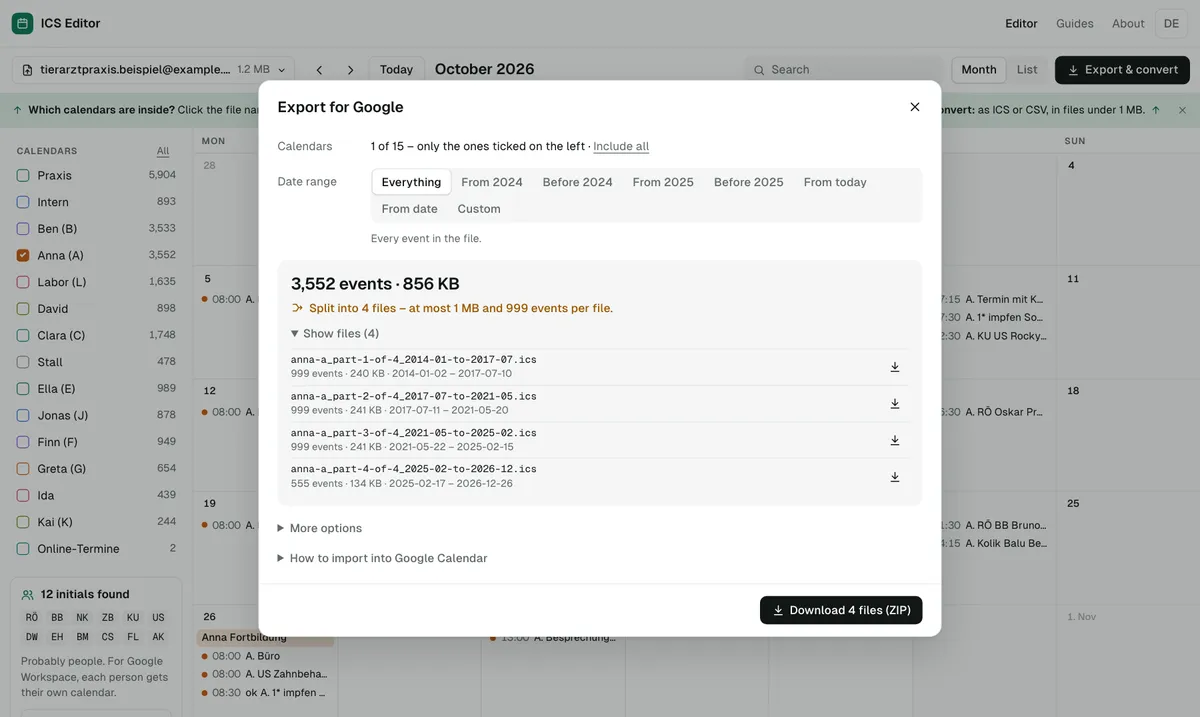
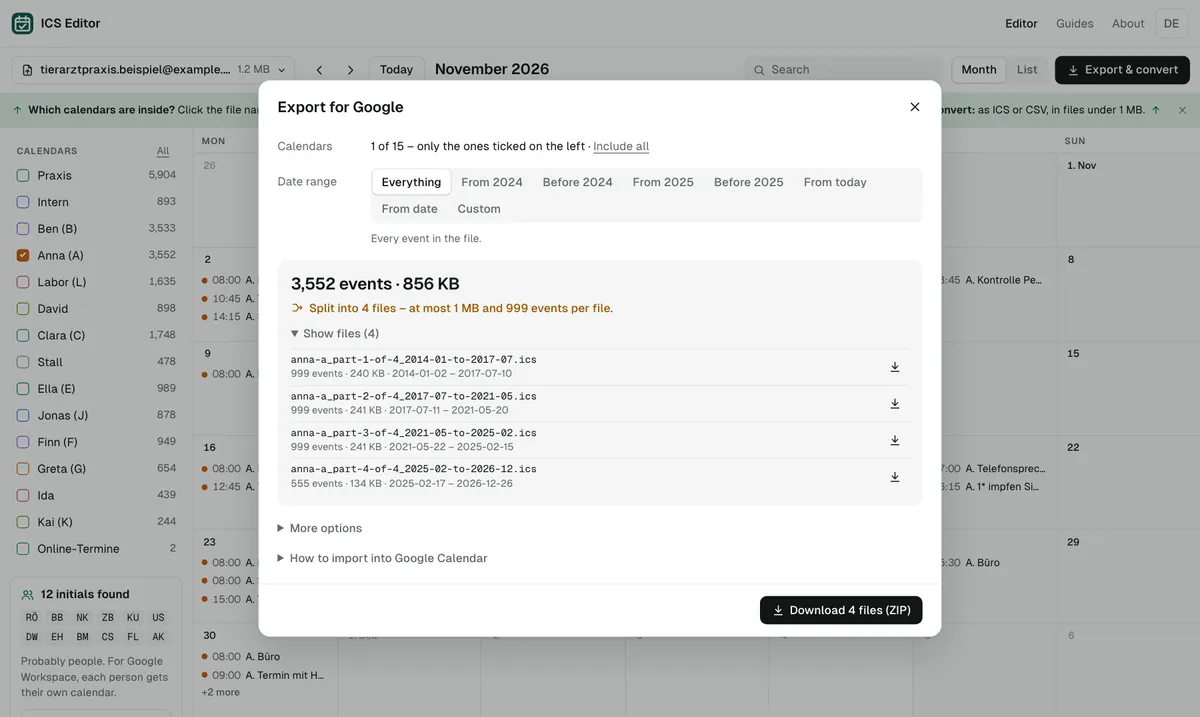
Bilder: 4 neue Bildschirmfotos (Start, Handy, Doppelte Termine, CSV), Alternativtexte getrennt von Bildunterschriften, bis zu 3 Bilder je Ratgeber
- scripts/screenshots.mjs: Startseite, Handy-Liste, Export mit doppelten Terminen (erfundene Datei), Zeitraum ab 2024, CSV für Excel; Einwilligungs-Banner nicht im Bild
- src/content/image-alt.ts: beschreibende Alternativtexte je Motiv (DE/EN)
- Bildunterschriften korrigiert, wo sie nicht zum Bild passten (u. a. Import rückgängig, CSV in ICS, Exportieren)
- ImageObject mit Maßen, Bildunterschrift und Beschreibung im Article-Schema; Hochformat-Bilder schmal

diff --git a/src/content/guides.ts b/src/content/guides.ts
@@ -48,7 +48,7 @@ export const GUIDES: Record<string, GuideDef> = {
     type: 'howto',
     published: '2026-10-08',
     updated: '2026-11-25',
-    figures: [{ name: 'export', de: 'Der ICS Editor teilt eine zu große Datei automatisch in Teile unter 1 MB – mit Zeitraum und Größe je Teil.', en: 'The ICS Editor automatically splits a file that is too large into parts under 1 MB – with date range and size for each part.' }, { name: 'clean', de: 'Verkleinern: nur die letzten Jahre exportieren oder unter „Mehr Optionen“ Zusatzdaten, Beschreibungen und abgesagte Termine weglassen – Größe und Dateianzahl ändern sich sofort.', en: 'Shrinking: export only recent years or, under “More options”, leave out extras, descriptions and cancelled events – size and file count update instantly.' }],
+    figures: [{ name: 'range', de: 'Erst verkleinern: Mit dem Zeitraum „Ab 2024“ schrumpft der Beispielkalender auf 5.806 Termine – das Fenster zeigt sofort, wie viele Dateien unter 1 MB es werden.', en: 'Shrink first: with the date range starting in 2024, the example calendar drops to 5,806 events – the window shows straight away how many files under 1 MB that makes.' }, { name: 'clean', de: 'Noch kleiner: Unter „Mehr Optionen“ lässt du technische Zusatzdaten, abgesagte Termine oder Beschreibungen weg – Größe und Dateianzahl ändern sich sofort.', en: 'Even smaller: under “More options” you leave out technical extras, cancelled events or descriptions – size and file count update instantly.' }, { name: 'export', de: 'Dann aufteilen: Jede Datei bleibt unter 1 MB und zeigt ihren Zeitraum – so weißt du beim Import, welcher Teil schon drin ist.', en: 'Then split: every file stays under 1 MB and shows its date range – so while importing you know which part is already in.' }],
     sources: ['problems', 'import'],
     related: ['importParts', 'split', 'limits', 'undo'],
     de: {
@@ -117,7 +117,7 @@ export const GUIDES: Record<string, GuideDef> = {
     published: '2026-10-26',
     updated: '2026-11-25',
     checked: '2026-11-25',
-    figures: [{ name: 'export', de: 'Im Export-Fenster unter „Mehr Optionen“ → „Weglassen“ steht „Doppelte Termine“ mit der Anzahl, die das Werkzeug gefunden hat.', en: 'In the export window under “More options” → “Leave out” you’ll find “Duplicate events” with the number the tool found.' }],
+    figures: [{ name: 'dupes', de: 'Duplikate beim Export weglassen: Das Werkzeug zählt Termine mit gleichem Titel, Beginn und Ende – hier 11 in einer Beispieldatei – und behält von jedem genau einen.', en: 'Leave duplicates out on export: the tool counts events with the same title, start and end – 11 in this example file – and keeps exactly one of each.' }, { name: 'overview', de: 'Schon vor dem Export sichtbar: Die Datei-Info nennt je Kalender, wie viele Termine doppelt sind.', en: 'Visible before you export: file info shows how many events are duplicated in each calendar.' }],
     sources: ['problems', 'gexport', 'import', 'delete', 'subscribe'],
     related: ['undo', 'gexport', 'importParts', 'outlook'],
     de: {
@@ -188,7 +188,7 @@ export const GUIDES: Record<string, GuideDef> = {
     published: '2026-10-26',
     updated: '2026-11-25',
     checked: '2026-11-25',
-    figures: [{ name: 'editor', de: 'Die aus Outlook gespeicherte ICS-Datei im ICS Editor: links der Kalender mit Zeitraum und Größe, in der Mitte die Termine.', en: 'The ICS file saved from Outlook in the ICS Editor: the calendar with date range and size on the left, the events in the middle.' }],
+    figures: [{ name: 'editor', de: 'So sieht eine geöffnete Kalenderdatei im ICS Editor aus: Bevor du sie in Google importierst, prüfst du Termine, Zeitraum und Größe (Beispieldaten).', en: 'This is what an opened calendar file looks like in the ICS Editor: before importing it into Google, you check events, date range and size (example data).' }, { name: 'range', de: 'Ein großer Outlook-Kalender passt nicht in eine Datei? Ein kürzerer Zeitraum und das automatische Aufteilen bringen jeden Teil unter 1 MB.', en: 'A large Outlook calendar won’t fit in one file? A shorter date range and automatic splitting get every part under 1 MB.' }],
     sources: ['outlook', 'outlookPublish', 'subscribe', 'import', 'problems'],
     related: ['ics', 'tooLarge', 'importParts', 'dupes'],
     de: {
@@ -261,7 +261,7 @@ export const GUIDES: Record<string, GuideDef> = {
     published: '2026-10-26',
     updated: '2026-11-25',
     checked: '2026-11-25',
-    figures: [{ name: 'editor', de: 'Mehrere aus Apple Kalender exportierte ICS-Dateien im ICS Editor: links jeder Kalender mit Zeitraum und Größe.', en: 'Several ICS files exported from Apple Calendar in the ICS Editor: each calendar on the left with its date range and size.' }],
+    figures: [{ name: 'editor', de: 'Alle exportierten Apple-Kalender zusammen prüfen: Links steht jeder Kalender mit seiner Terminzahl, in der Mitte der Monat (Beispieldaten).', en: 'Check all exported Apple calendars together: each calendar is listed on the left with its event count, the month in the middle (example data).' }, { name: 'overview', de: 'Vor dem Import Uhrzeiten absichern: Die Datei-Info zeigt je Kalender die Zeitzone, den Zeitraum und die Größe.', en: 'Rule out wrong times before importing: file info shows the time zone, date range and size of each calendar.' }],
     sources: ['apple', 'icloudShare', 'subscribe', 'import', 'problems'],
     related: ['outlook', 'ics', 'importParts', 'dupes'],
     de: {
@@ -331,7 +331,7 @@ export const GUIDES: Record<string, GuideDef> = {
     type: 'howto',
     published: '2026-11-05',
     updated: '2026-11-05',
-    figures: [{ name: 'export', de: 'Im ICS Editor wählst du beim Export zwischen ICS und CSV für Excel – und siehst vorher, wie viele Termine und Dateien es werden.', en: 'In the ICS Editor you choose between ICS and CSV for Excel on export – and see beforehand how many events and files it will be.' }],
+    figures: [{ name: 'overview', de: 'Was im Google-Export steckt: Die Datei-Info zeigt jeden Kalender aus dem ZIP mit Terminen, Zeitraum und Größe.', en: 'What’s inside the Google export: file info shows every calendar from the ZIP with events, date range and size.' }, { name: 'csv', de: 'Für Excel: Beim Export „CSV für Excel“ wählen – Spaltennamen und Trennzeichen entsprechen dem Format aus Googles Hilfe.', en: 'For Excel: choose “CSV for Excel” on export – column names and separator match the format in Google’s help.' }],
     sources: ['gexport', 'import', 'excelCsv'],
     related: ['open', 'split', 'importParts', 'move'],
     de: {
@@ -398,7 +398,7 @@ export const GUIDES: Record<string, GuideDef> = {
     published: '2026-11-05',
     updated: '2026-11-25',
     checked: '2026-11-25',
-    figures: [{ name: 'editor', de: 'Eine geöffnete ICS-Datei im ICS Editor: links die Kalender, in der Mitte die Termine im Monat, rechts ein Termin mit allen Angaben.', en: 'An ICS file opened in the ICS Editor: calendars on the left, events in the month view in the middle, one event with all its details on the right.' }],
+    figures: [{ name: 'start', de: 'Datei auf das Feld ziehen oder „Datei auswählen“ – die Datei wird im Browser gelesen und nicht hochgeladen.', en: 'Drop the file onto the box or click “Choose file” – the file is read in your browser and not uploaded.' }, { name: 'editor', de: 'Die geöffnete Datei: links die Kalender, in der Mitte die Termine im Monat, rechts ein Termin mit allen Angaben (Beispieldaten).', en: 'The opened file: calendars on the left, the events in the month in the middle, one event with all its details on the right (example data).' }, { name: 'mobile', de: 'Am Handy: Die Termine erscheinen als Liste mit Uhrzeit und Titel – angesehen, ohne sie in einen Kalender zu übernehmen (Beispieldaten).', en: 'On a phone: the events appear as a list with time and title – viewed without adding them to a calendar (example data).' }],
     sources: ['rfc5545', 'windowsMail', 'outlookImport', 'apple', 'import'],
     related: ['ics', 'gexport', 'apple', 'convert'],
     de: {
@@ -466,7 +466,7 @@ export const GUIDES: Record<string, GuideDef> = {
     type: 'howto',
     published: '2026-11-05',
     updated: '2026-11-05',
-    figures: [{ name: 'month', de: 'Im ICS Editor bekommt jeder Ziel-Kalender eine Farbe – so siehst du vor dem Export, welcher Termin wohin wandert.', en: 'In the ICS Editor every target calendar gets a colour – so you see before exporting which event goes where.' }],
+    figures: [{ name: 'split', de: 'Ziel-Kalender anlegen: „Aufteilen“ macht aus jedem Kürzel am Titelanfang einen eigenen Kalender, dem du einen Namen gibst.', en: 'Create target calendars: “Split” turns each set of initials at the start of a title into its own calendar, which you can name.' }, { name: 'month', de: 'Vor dem Export kontrollieren: Jeder Ziel-Kalender hat eine eigene Farbe – so siehst du, welcher Termin wohin wandert.', en: 'Check before exporting: every target calendar has its own colour – so you see which event goes where.' }],
     sources: ['transfer', 'gexport', 'import', 'delete'],
     related: ['split', 'gexport', 'dupes', 'undo'],
     de: {
@@ -532,7 +532,7 @@ export const GUIDES: Record<string, GuideDef> = {
     type: 'article',
     published: '2026-10-08',
     updated: '2026-11-25',
-    figures: [{ name: 'overview', de: 'Die Datei-Info zeigt pro Kalender Termine, Zeitraum, Größe, Serien und Zeitzone – dazu die Termine pro Jahr.', en: 'File info shows events, date range, size, recurring events and time zone for each calendar – plus events per year.' }],
+    figures: [{ name: 'overview', de: 'Alle Kennzahlen zu einer Datei: Termine, Zeitraum, Größe, Serien und Zeitzone je Kalender – dazu die Termine pro Jahr.', en: 'All key figures for a file: events, date range, size, recurring events and time zone per calendar – plus events per year.' }, { name: 'parts', de: 'Zwei Grenzen auf einmal: höchstens 1 MB und auf Wunsch höchstens 999 Termine pro Datei – das Werkzeug zeigt Zeitraum und Terminzahl jedes Teils.', en: 'Two limits at once: at most 1 MB and, if you want, at most 999 events per file – the tool shows each part’s date range and event count.' }],
     sources: ['problems', 'import', 'limits', 'delete'],
     related: ['tooLarge', 'importFails', 'split', 'undo'],
     de: {
@@ -616,7 +616,7 @@ export const GUIDES: Record<string, GuideDef> = {
     type: 'howto',
     published: '2026-10-08',
     updated: '2026-10-13',
-    figures: [{ name: 'check', de: '„Spalten und Probleme“: Problemzeilen in einfacher Sprache mit Zeilennummer und Vorschlag zur Korrektur.', en: '“Columns and problems”: problem rows in plain language with row number and a suggested fix.' }],
+    figures: [{ name: 'check', de: 'Statt einer Fehlermeldung von Google: „Spalten und Probleme“ nennt jede Problemzeile mit Nummer und einem Vorschlag zur Korrektur (Beispieldaten).', en: 'Instead of an error from Google: “Columns and problems” lists every problem row with its number and a suggested fix (example data).' }, { name: 'csv', de: 'Danach als Google-CSV speichern: englische Spaltennamen und Komma als Trennzeichen, so wie Google es verlangt.', en: 'Then save as Google CSV: English column names and commas as separators, exactly as Google requires.' }],
     sources: ['import', 'problems'],
     related: ['tooLarge', 'limits', 'convert', 'excel'],
     de: {
@@ -694,7 +694,7 @@ export const GUIDES: Record<string, GuideDef> = {
     type: 'howto',
     published: '2026-10-08',
     updated: '2026-10-14',
-    figures: [{ name: 'editor', de: 'Links die Kalender der Datei und erkannte Kürzel, in der Mitte die Termine, rechts der gewählte Termin zum Bearbeiten.', en: 'On the left the calendars in the file and detected initials, in the middle the events, on the right the selected event for editing.' }, { name: 'split', de: 'Ein Klick auf „Aufteilen“ macht aus jedem Kürzel einen eigenen Kalender – mit Namen, Farbe und Anzahl der Termine.', en: 'One click on “Split” turns each set of initials into its own calendar – with a name, a colour and its event count.' }],
+    figures: [{ name: 'editor', de: 'Erkannte Kürzel: Links unter den Kalendern stehen die Kürzel, die das Werkzeug am Titelanfang gefunden hat, etwa RÖ, BB, NK (Beispieldaten).', en: 'Detected initials: below the calendars on the left are the initials the tool found at the start of titles, e.g. RÖ, BB, NK (example data).' }, { name: 'split', de: 'Ein Klick auf „Aufteilen“ macht aus jedem Kürzel einen eigenen Kalender – mit Namen, Farbe und Anzahl der Termine.', en: 'One click on “Split” turns each set of initials into its own calendar – with a name, a colour and its event count.' }, { name: 'month', de: 'Das Ergebnis: Jeder neue Kalender hat seine Farbe und kann einzeln exportiert und in Google importiert werden.', en: 'The result: every new calendar has its own colour and can be exported and imported into Google separately.' }],
     sources: ['import', 'create', 'limits', 'problems'],
     related: ['tooLarge', 'importParts', 'ics', 'undo'],
     de: {
@@ -760,7 +760,7 @@ export const GUIDES: Record<string, GuideDef> = {
     type: 'howto',
     published: '2026-10-08',
     updated: '2026-10-13',
-    figures: [{ name: 'birthdays', de: 'Aus einer Geburtstagsliste werden jährliche, ganztägige Termine – in der Liste mit Wiederholungs-Symbol.', en: 'A birthday list becomes yearly all-day events – shown with a repeat icon in the list.' }],
+    figures: [{ name: 'birthdays', de: 'Aus einer Geburtstagsliste werden jährliche, ganztägige Termine – in der Liste mit Wiederholungs-Symbol (Beispieldaten).', en: 'A birthday list becomes yearly all-day events – shown with a repeat icon in the list (example data).' }, { name: 'privacy', de: 'Bevor etwas in Google landet: Spalten mit Telefonnummern oder Geburtsdaten lassen sich weglassen oder kürzen.', en: 'Before anything reaches Google: columns with phone numbers or dates of birth can be left out or shortened.' }],
     sources: ['import', 'problems'],
     related: ['convert', 'importFails', 'ics', 'undo'],
     de: {
@@ -824,7 +824,7 @@ export const GUIDES: Record<string, GuideDef> = {
     type: 'howto',
     published: '2026-10-08',
     updated: '2026-10-13',
-    figures: [{ name: 'editor', de: 'Eine ICS-Datei im ICS Editor: Kalender, Termine und das Bearbeitungsfeld für den gewählten Termin.', en: 'An ICS file in the ICS Editor: calendars, events and the editor for the selected event.' }, { name: 'month', de: 'In der Monatsansicht erscheinen Serientermine an jedem Tag, an dem sie stattfinden.', en: 'In the month view, recurring events appear on every day they occur.' }],
+    figures: [{ name: 'editor', de: 'Vor dem Import ansehen: Kalender, Termine und das Bearbeitungsfeld für den gewählten Termin (Beispieldaten).', en: 'Look before importing: calendars, events and the editor for the selected event (example data).' }, { name: 'range', de: 'Größe prüfen: Das Exportfenster zeigt, ob alles in eine Datei unter 1 MB passt oder in wie viele Teile geteilt wird.', en: 'Check the size: the export window shows whether everything fits into one file under 1 MB or how many parts it needs.' }],
     sources: ['import', 'problems'],
     related: ['outlook', 'tooLarge', 'split', 'convert'],
     de: {
@@ -888,7 +888,7 @@ export const GUIDES: Record<string, GuideDef> = {
     type: 'howto',
     published: '2026-10-14',
     updated: '2026-10-14',
-    figures: [{ name: 'parts', de: 'Nur der Kalender „Anna (A)“ angehakt und „Höchstens 999 Termine pro Datei“: Der ICS Editor teilt in vier Dateien und zeigt je Teil Zeitraum und Zahl der Termine (Beispieldaten).', en: 'Only the calendar “Anna (A)” ticked and “At most 999 events per file”: the ICS Editor splits into four files and lists each part’s date range and event count (example data).' }],
+    figures: [{ name: 'parts', de: 'Nur der Kalender „Anna (A)“ angehakt und „Höchstens 999 Termine pro Datei“: Der ICS Editor teilt in vier Dateien und zeigt je Teil Zeitraum und Zahl der Termine (Beispieldaten).', en: 'Only the calendar “Anna (A)” ticked and “At most 999 events per file”: the ICS Editor splits into four files and lists each part’s date range and event count (example data).' }, { name: 'export', de: 'Die Dateinamen enthalten den Zeitraum – so hakst du beim Import der Reihe nach ab, welcher Teil schon in Google ist.', en: 'The file names include the date range – so you tick off one by one which part is already in Google.' }],
     sources: ['import', 'problems', 'create'],
     related: ['tooLarge', 'split', 'dupes', 'undo'],
     de: {
@@ -958,7 +958,7 @@ export const GUIDES: Record<string, GuideDef> = {
     type: 'howto',
     published: '2026-10-08',
     updated: '2026-10-13',
-    figures: [{ name: 'export', de: 'Beim Export wählst du zwischen ICS (mit Serien und Zeitzone) und Google-CSV.', en: 'When exporting you choose between ICS (with recurrence and time zone) and Google CSV.' }, { name: 'privacy', de: 'Vor dem Umwandeln lassen sich Spalten mit Namen, Telefonnummern oder Geburtsdaten weglassen oder kürzen.', en: 'Before converting, columns with names, phone numbers or birth dates can be left out or shortened.' }],
+    figures: [{ name: 'check', de: 'Erst prüfen: Ungültige Daten, fehlende Titel oder vertauschte Uhrzeiten zeigt das Werkzeug mit Zeilennummer und Vorschlag.', en: 'Check first: invalid dates, missing titles or swapped times are shown with row number and a suggestion.' }, { name: 'privacy', de: 'Vor dem Umwandeln lassen sich Spalten mit Namen, Telefonnummern oder Geburtsdaten weglassen oder kürzen; darunter ordnest du jede Spalte einem Google-Feld zu.', en: 'Before converting, columns with names, phone numbers or dates of birth can be left out or shortened; below that you map each column to a Google field.' }, { name: 'csv', de: 'Dann als ICS (mit Serien und Zeitzone) oder als Google-CSV speichern.', en: 'Then save as ICS (with recurrence and time zone) or as Google CSV.' }],
     sources: ['import', 'rfc5545'],
     related: ['excel', 'ics', 'importFails', 'tooLarge'],
     de: {
@@ -1018,7 +1018,7 @@ export const GUIDES: Record<string, GuideDef> = {
     type: 'howto',
     published: '2026-10-08',
     updated: '2026-11-04',
-    figures: [{ name: 'export', de: 'Im Export-Fenster steht die Anleitung zum Import – sie beginnt mit einem neuen, leeren Kalender.', en: 'The export window includes the import steps – starting with a new, empty calendar.' }],
+    figures: [{ name: 'parts', de: 'Beim nächsten Versuch: Große Dateien in Teilen importieren, jeden Teil mit Zeitraum – so lässt sich ein Fehler leichter eingrenzen.', en: 'On your next attempt: import large files in parts, each with its date range – that makes an error easier to narrow down.' }],
     sources: ['delete', 'create', 'problems'],
     related: ['dupes', 'importParts', 'ics', 'tooLarge'],
     de: {

diff --git a/src/content/image-alt.ts b/src/content/image-alt.ts
@@ -1,0 +1,66 @@
+// Alternativtexte der Bildschirmfotos: beschreiben, was zu sehen ist (für Screenreader, Bildersuche und Antwortmaschinen).
+// Die Bildunterschrift je Ratgeber erklärt dagegen, warum das Bild an dieser Stelle hilft.
+// Alle Fotos zeigen erfundene Beispieldaten (scripts/screenshots.mjs).
+
+export const IMG_ALT: Record<string, { de: string; en: string }> = {
+  start: {
+    de: 'Startseite des ICS Editors: gestrichelte Ablagefläche mit „Datei hierher ziehen“, Knopf „Datei auswählen“, darunter die unterstützten Formate und der Hinweis „Bleibt auf deinem Gerät. Nichts wird hochgeladen.“',
+    en: 'ICS Editor start page: dashed drop area with “Drop your file here”, a “Choose file” button, the supported formats below and the note that nothing is uploaded.'
+  },
+  editor: {
+    de: 'ICS Editor mit geöffnetem Google-Kalender-Export: links 15 Kalender mit Anzahl der Termine, in der Mitte die Monatsansicht November, rechts ein ausgewählter Termin mit Datum, Uhrzeit und Beschreibung zum Bearbeiten.',
+    en: 'ICS Editor with a Google Calendar export open: 15 calendars with event counts on the left, the November month view in the middle, a selected event with date, time and description for editing on the right.'
+  },
+  overview: {
+    de: 'Fenster „Datei-Info“: je Kalender Kacheln für Termine, Zeitraum, Größe, Serien, Anteil mit Beschreibung und Zeitzone, ein Balkendiagramm der Termine pro Jahr sowie Zeilen für abgesagte, doppelte und Termine mit Telefonnummer.',
+    en: '“File info” window: for each calendar, tiles for events, date range, size, recurring events, share with description and time zone, a bar chart of events per year, and rows for cancelled, duplicate and events with phone numbers.'
+  },
+  export: {
+    de: 'Fenster „Für Google exportieren“ mit Zeitraum „Ab 2024“: oben die Summe „Passt: 13 Dateien, jede unter 1 MB“, darunter die aufgeklappte Liste der Dateien mit Name, Zahl der Termine, Größe und Zeitraum je Datei.',
+    en: '“Export for Google” window with the date range set to start in 2024: the total “Fits: 13 files, each under 1 MB” at the top and the expanded list of files with name, event count, size and date range for each.'
+  },
+  range: {
+    de: 'Fenster „Für Google exportieren“: Zeitraum „Ab 2024“ ausgewählt, darunter „5.806 Termine · 1,4 MB“ und grün „Passt: 14 Dateien, jede unter 1 MB“.',
+    en: '“Export for Google” window: date range starting in 2024 selected, below it “5,806 events · 1.4 MB” and in green “Fits: 14 files, each under 1 MB”.'
+  },
+  clean: {
+    de: 'Exportfenster mit aufgeklappten „Mehr Optionen“: Häkchen bei „Technische Zusatzdaten“ und „Abgesagte Termine“, daneben die Anzahl je Option, Format „CSV für Excel“ gewählt.',
+    en: 'Export window with “More options” expanded: ticks at “Technical extras” and “Cancelled events”, the count next to each option, format “CSV for Excel” selected.'
+  },
+  csv: {
+    de: 'Exportfenster mit Format „CSV für Excel“: Hinweis „Genau das Format aus Googles Hilfe: englische Spaltennamen, Komma als Trennzeichen“, darüber die Optionen zum Weglassen.',
+    en: 'Export window with format “CSV for Excel”: the note “exactly the format from Google’s help: English column names, comma as separator”, with the leave-out options above.'
+  },
+  dupes: {
+    de: 'Exportfenster für eine Beispiel-Praxisdatei: „45 Termine · 9 KB, passt in eine Datei unter 1 MB“, unter „Weglassen“ ist „Doppelte Termine“ mit der Zahl 11 angehakt.',
+    en: 'Export window for an example practice file: “45 events · 9 KB, fits in one file under 1 MB”, under “Leave out” the option “Duplicate events” with the number 11 is ticked.'
+  },
+  parts: {
+    de: 'Exportfenster: nur ein Kalender ausgewählt, Hinweis „Wird in 4 Dateien geteilt – höchstens 1 MB und 999 Termine pro Datei“, darunter vier Dateien mit je 999 oder weniger Terminen und ihrem Zeitraum.',
+    en: 'Export window: one calendar selected, the note “Split into 4 files – at most 1 MB and 999 events per file”, below four files with 999 or fewer events each and their date range.'
+  },
+  split: {
+    de: 'Fenster „In mehrere Kalender aufteilen“: Liste erkannter Kürzel wie RÖ, BB, NK mit Anzahl der Termine; das erste Kürzel erhält gerade den Namen „Dr. Muster“, unten der Knopf „13 Kalender anlegen“.',
+    en: '“Split into several calendars” window: a list of detected initials such as RÖ, BB, NK with event counts; the first is being named “Dr. Muster”, with a “Create 13 calendars” button at the bottom.'
+  },
+  month: {
+    de: 'Monatsansicht nach dem Aufteilen: links die neuen Kalender je Kürzel mit eigener Farbe und Terminzahl, in den Tagesfeldern farbige Punkte vor jedem Termin.',
+    en: 'Month view after splitting: the new calendars per set of initials with their own colour and event count on the left, coloured dots in front of each event in the day cells.'
+  },
+  check: {
+    de: 'Fenster „Spalten und Probleme“ für eine CSV-Datei: vier Warnungen mit Zeilennummer, etwa „Zeile 21: Das Datum 31.02.2019 gibt es nicht“, je mit Vorschlag und den Knöpfen „Übernehmen“ und „Termin weglassen“.',
+    en: '“Columns and problems” window for a CSV file: four warnings with row numbers, such as “Row 21: the date 31.02.2019 doesn’t exist”, each with a suggestion and the buttons “Apply” and “Leave out event”.'
+  },
+  privacy: {
+    de: 'Abschnitt „Persönliche Daten“: für die Spalten „Patient“, „Telefon“ und „Geburtsdatum“ je die Wahl zwischen Weglassen, Kürzen und Behalten; darunter die Zuordnung der Spalten zu Googles Feldern wie „Start Date“ und „Subject“.',
+    en: '“Personal data” section: for columns with patient names, phone numbers and dates of birth, a choice between leave out, shorten and keep; below, the mapping of columns to Google’s fields such as “Start Date” and “Subject”.'
+  },
+  birthdays: {
+    de: 'Listenansicht einer umgewandelten Excel-Geburtstagsliste: ganztägige Termine „Geburtstag: Name (geb. Jahr)“ mit Wiederholungs-Symbol, rechts ein Termin mit „Serie (jährlich)“.',
+    en: 'List view of a converted Excel birthday list: all-day events “Birthday: name (born year)” with a repeat icon, and on the right one event repeating yearly.'
+  },
+  mobile: {
+    de: 'ICS Editor am Handy: Listenansicht mit Datum als Überschrift und darunter die Termine mit Uhrzeit, farbigem Punkt für den Kalender und Titel.',
+    en: 'ICS Editor on a phone: list view with the date as a heading and the events below with time, a coloured dot for the calendar and the title.'
+  }
+};

diff --git a/src/styles/site.css b/src/styles/site.css
@@ -139,7 +139,7 @@ main.bare { padding: 0; }
 .plain { list-style: none; margin: 0; padding: 0; }
 .shot { margin: 24px 0; }
 .shot img { display: block; width: 100%; height: auto; border-radius: 12px; border: 1px solid var(--line); box-shadow: 0 8px 30px rgba(0, 0, 0, .08); background: var(--bg); }
-.shot figcaption { font-size: 13px; color: var(--muted); margin-top: 8px; }
+.shot figcaption { font-size: 14px; color: var(--muted); margin-top: 8px; }
 .figure-grid { display: grid; gap: 20px; grid-template-columns: repeat(auto-fit, minmax(300px, 1fr)); }
 .figure-grid .shot { margin: 0; }
 .home-content { padding-top: 56px; padding-bottom: 72px; }
@@ -481,3 +481,7 @@ h2[id] { scroll-margin-top: calc(var(--hh, 56px) + 16px); }
   .consent-btns { flex: 1 1 100%; }
   .consent-btns .btn { flex: 1; min-width: 0; }
 }
+
+/* Hochformat-Bildschirmfotos (Handy): nicht über die volle Spaltenbreite ziehen */
+.shot.portrait img { max-width: 320px; margin-inline: auto; display: block; }
+.shot.portrait figcaption { text-align: center; }
